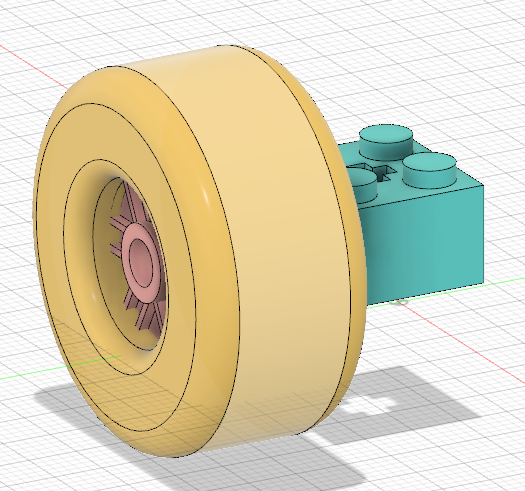
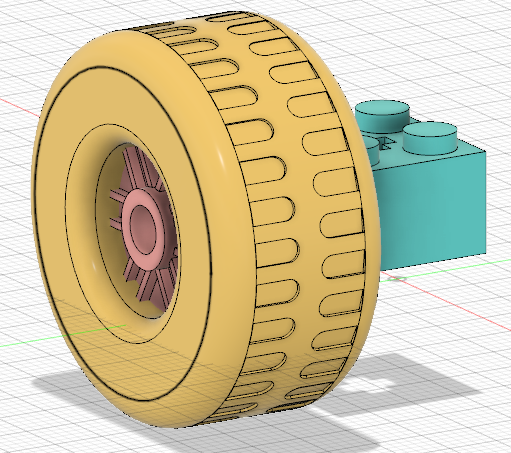
wheel

diff --git a/02_class/02_class.html b/02_class/02_class.html
@@ -29,7 +29,7 @@
   <img src="caliper1.jpg" style="width:30%" alt="caliper1">
   <img src="caliper2.jpg" style="width:30%" alt="caliper2">
   <img src="caliper3.jpg" style="width:30%" alt="caliper3">
-  <p> The wheel was the easiest piece to model. After making a sketch with two concentric circles and extruding the outside ring, I used the filet feature to make the edges of the wheel more rounded. </p>
+  <p> First, I made the wheel. After making a sketch with two concentric circles and extruding the outside ring, I used the filet feature to make the edges of the wheel more rounded. Then, I created an offset plane on the part of the wheel where there were supposed to be tire treads so that I could create a sketch to make those treads. Once the sketch was complete, I used a circular pattern around the axis in the center of the wheel to create the tire's treads. Finally, on the side of the wheel shown (i.e. the back), I used two concentric circles and divided them to make eight symmetric cavities which I then extruded. </p>
   <img src="wheel_sketch.PNG" style="width:30%" alt="wheel sketch"><img src="wheel_done.PNG" style="width:40%" alt="finished wheel">
   <p> Next came the bearing. This one was a bit harder to sketch since I wanted to try creating the spokes of the wheel. To start, I used lines to divide the circle into 6 parts and then used the offset feature on each line twice per side of the line. I then made a few more concentric circles and finally used the extrude feature to make the divets on the spoke. </p>
   <img src="bearing_sketch.PNG" style="width:30%" alt="bearing sketch">
